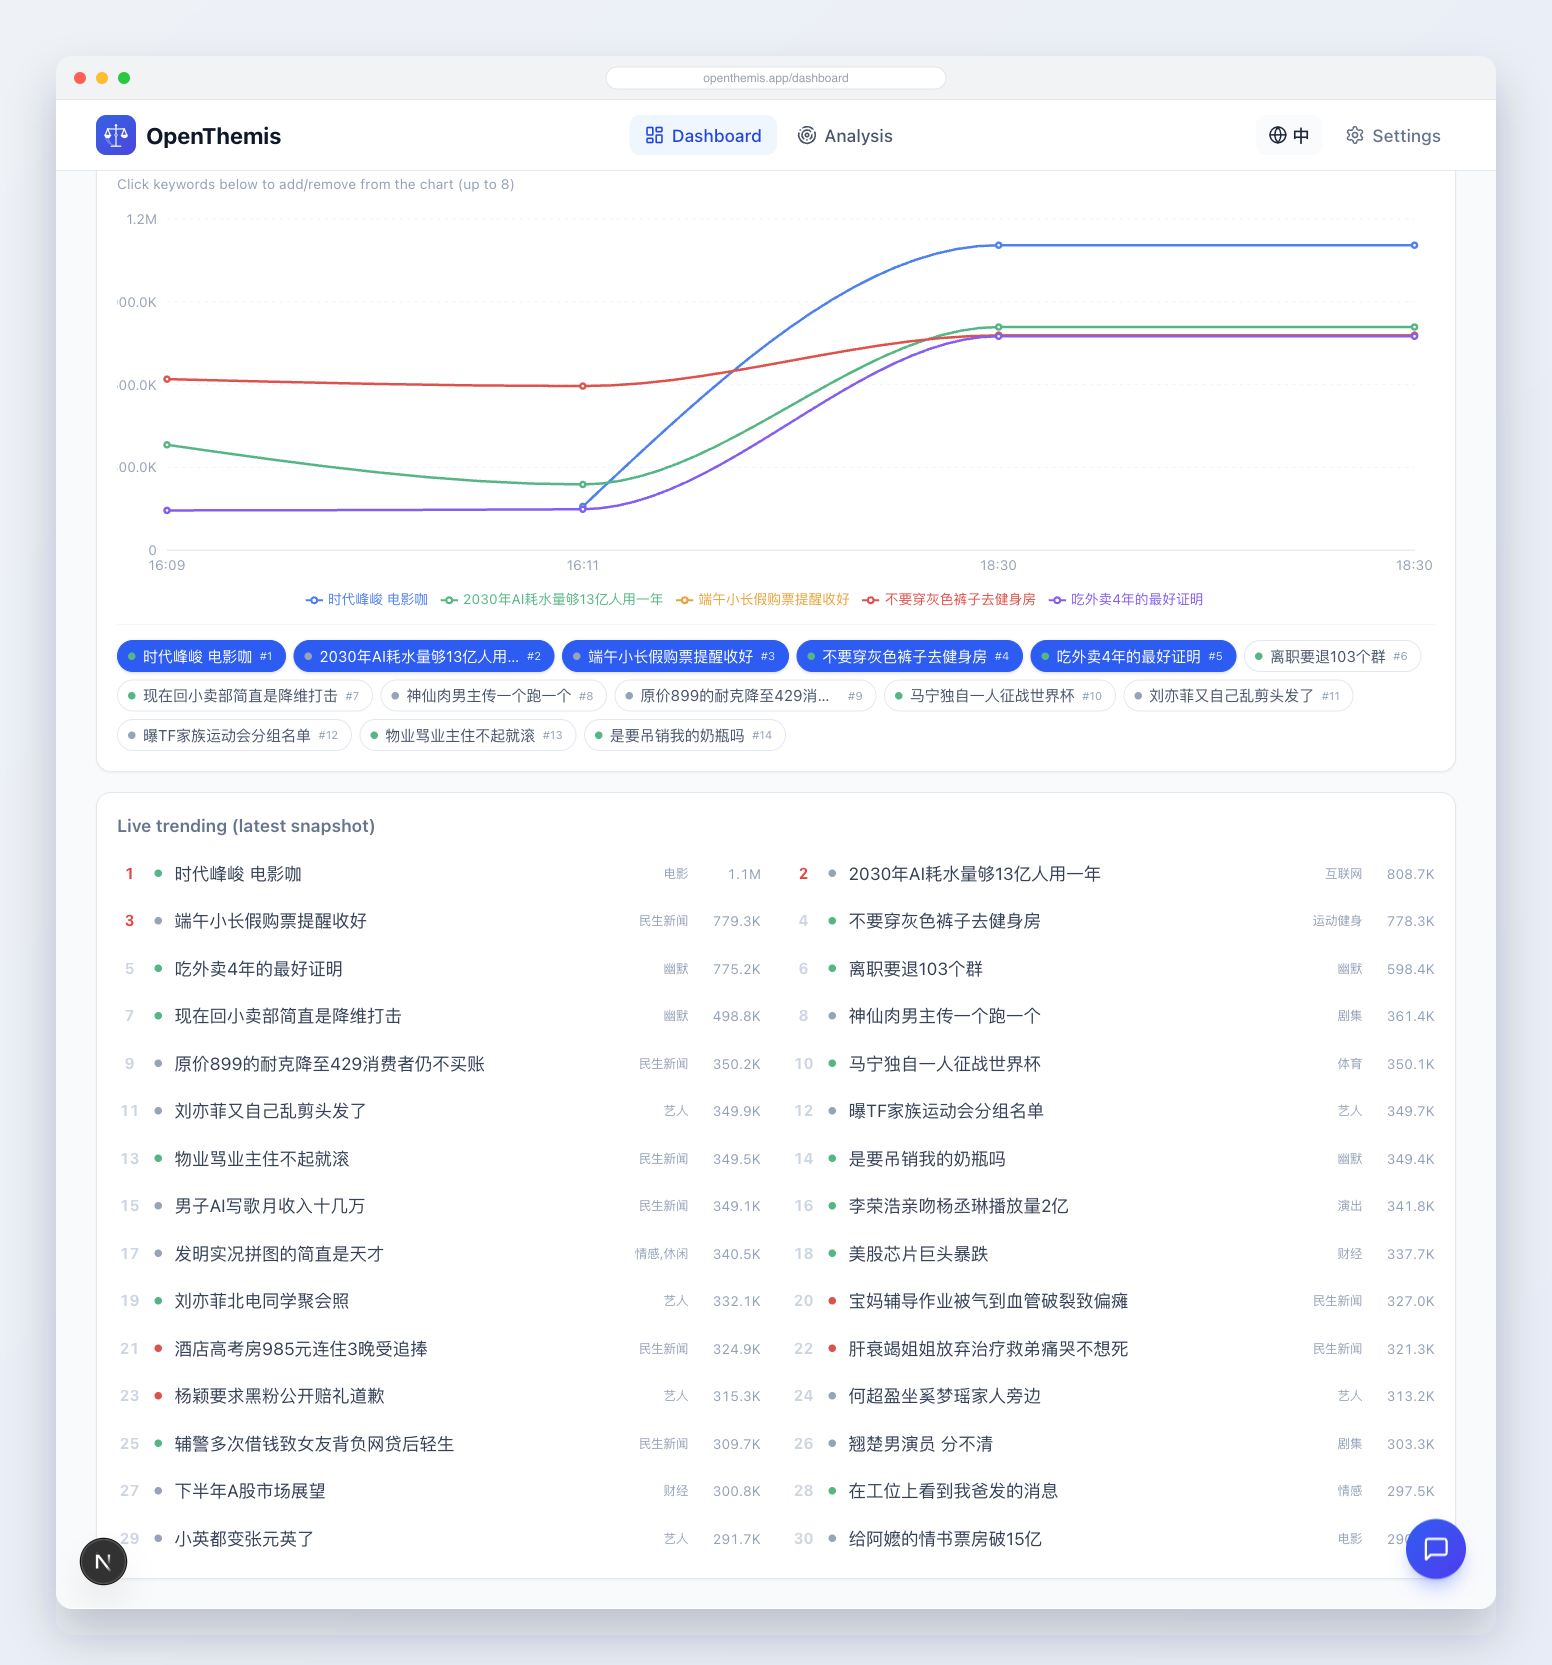
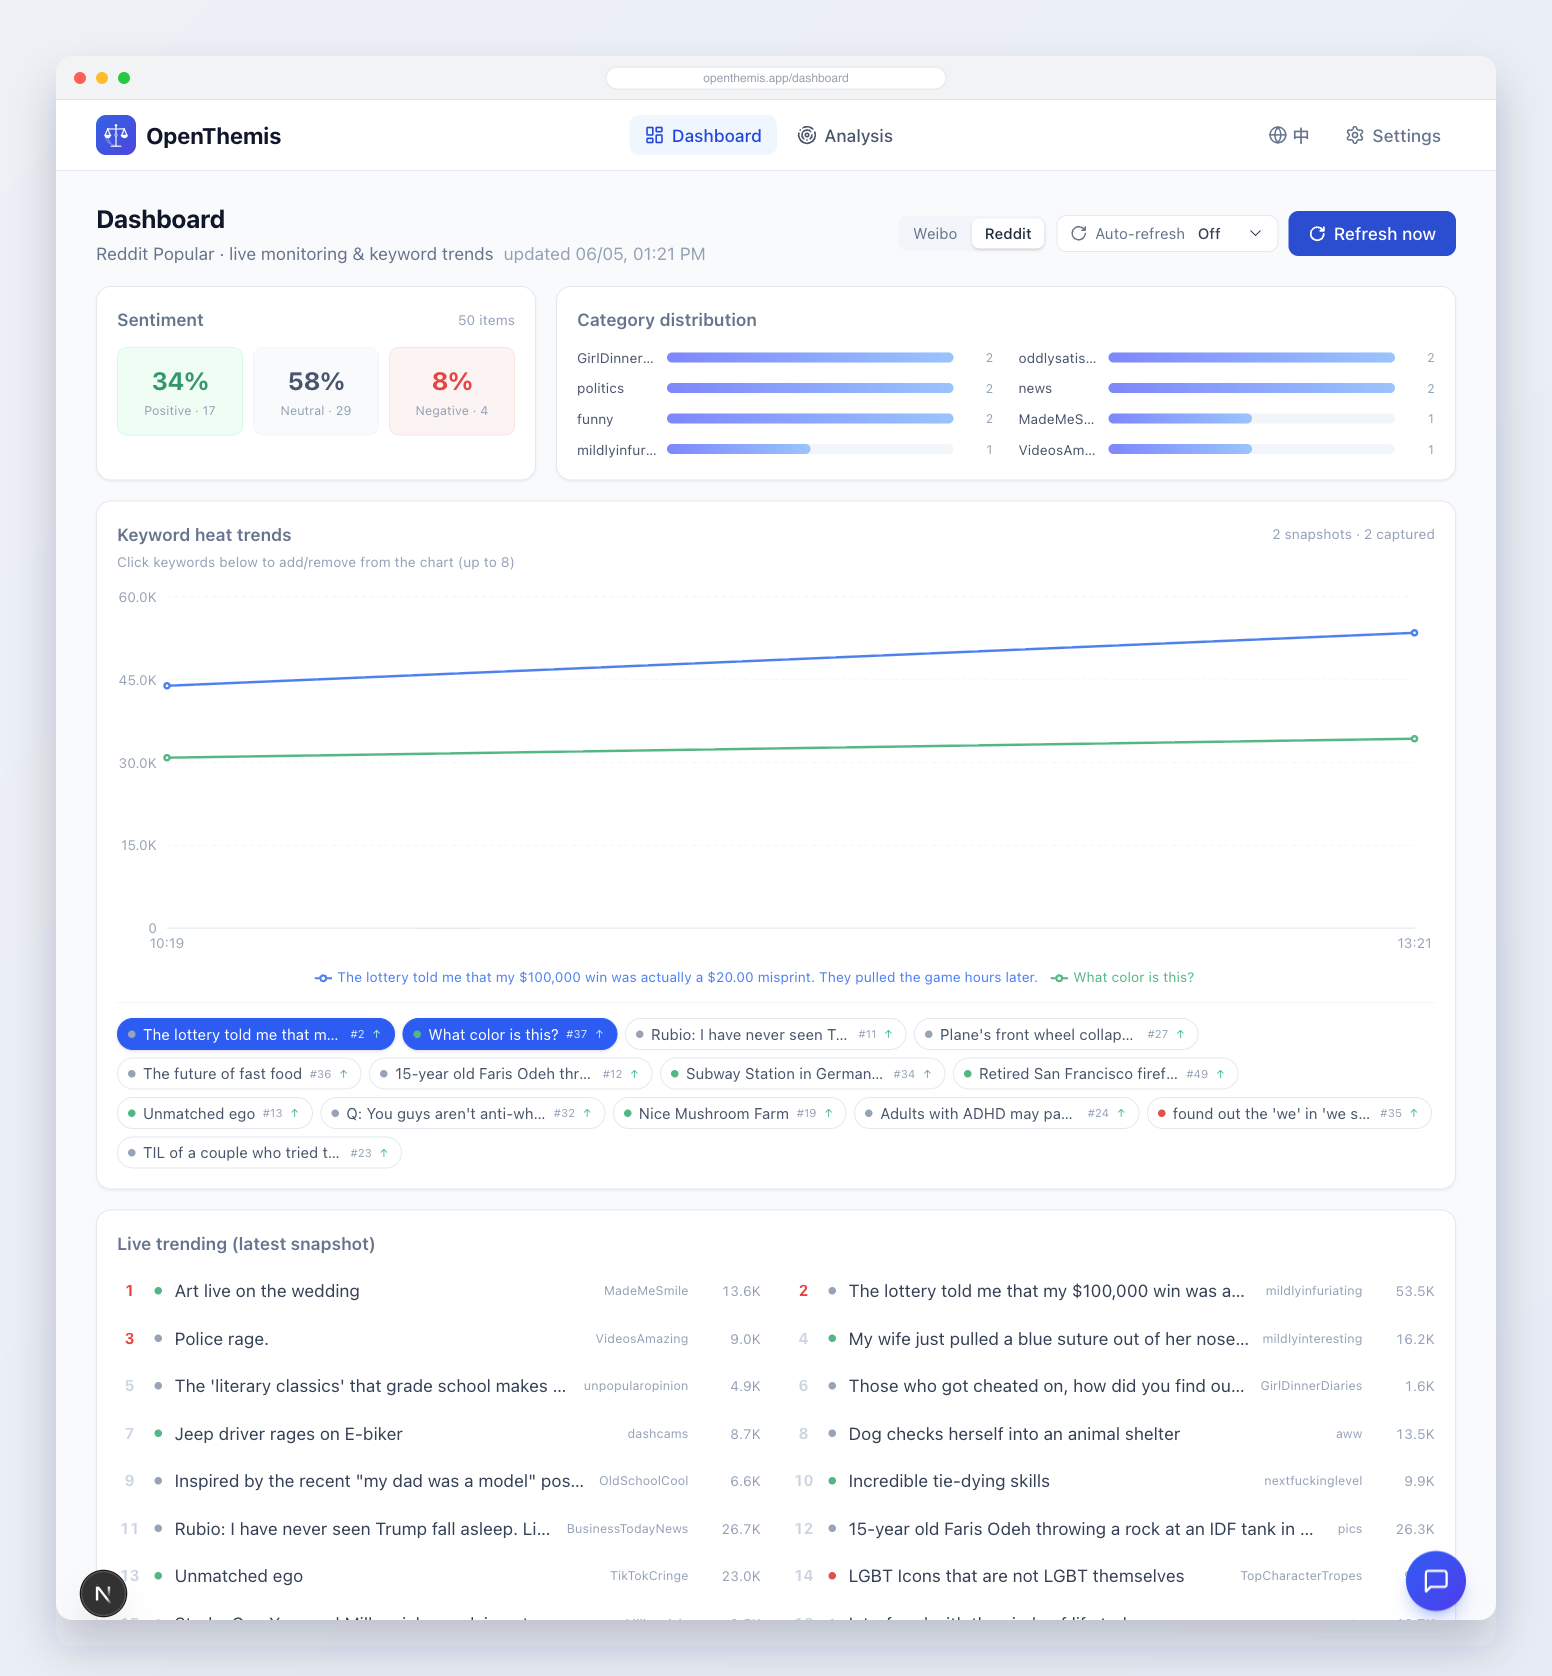
fix(dashboard): refresh used stale channel; refetch correct source on switch

diff --git a/app/dashboard/page.tsx b/app/dashboard/page.tsx
@@ -111,7 +111,7 @@ export default function DashboardPage() {
     } finally {
       setRefreshing(false);
     }
-  }, [applyData]);
+  }, [applyData, channel]);
 
   useEffect(() => { load(); }, [load]);
 
@@ -163,7 +163,7 @@ export default function DashboardPage() {
             {[{ id: 'weibo', label: t('微博', 'Weibo') }, { id: 'reddit', label: 'Reddit' }].map((src) => (
               <button
                 key={src.id}
-                onClick={() => { if (src.id !== channel) { selectedInit.current = false; setSelected([]); setChannel(src.id); } }}
+                onClick={() => { if (src.id !== channel) { selectedInit.current = false; setSelected([]); setData(null); setError(null); setChannel(src.id); } }}
                 className={`text-xs px-2.5 py-1 rounded-md transition-colors ${
                   channel === src.id ? 'bg-white text-slate-800 shadow-sm font-medium' : 'text-slate-500 hover:text-slate-700'
                 }`}
